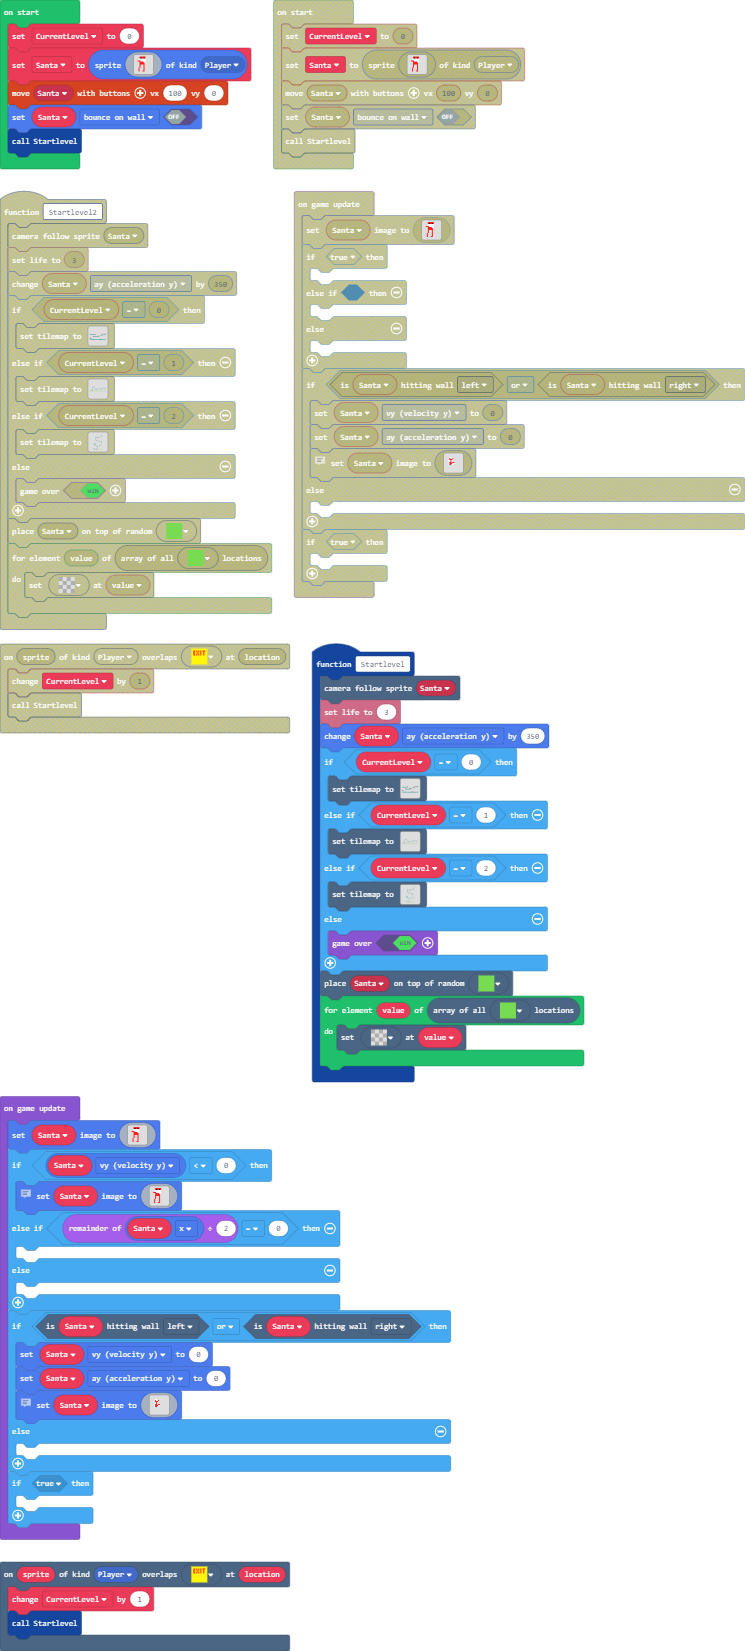
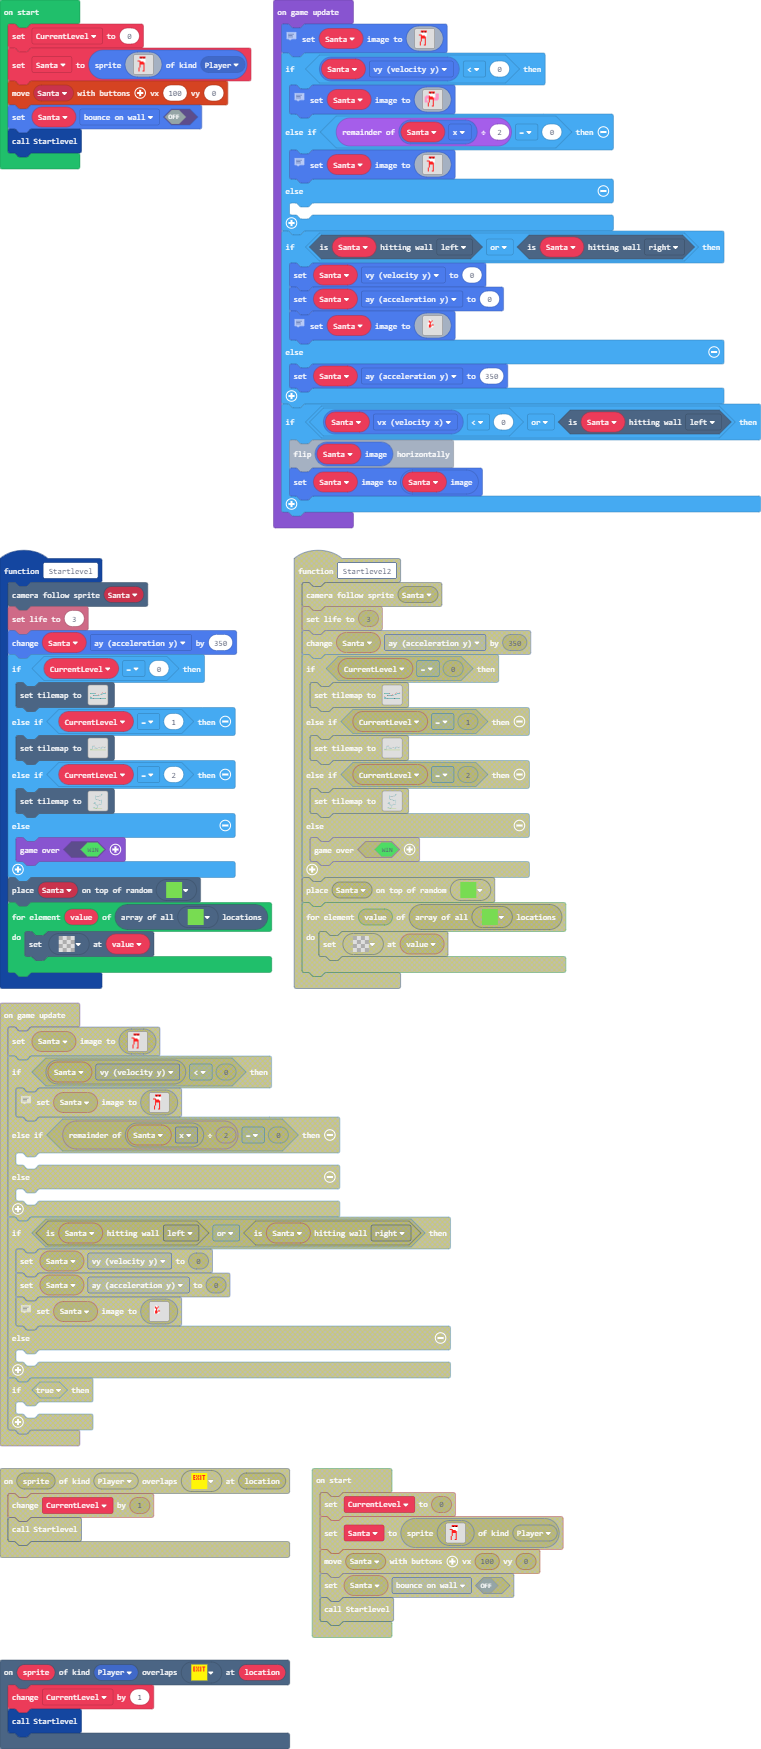
Update main.blocks, main.ts

diff --git a/main.ts b/main.ts
@@ -311,6 +311,7 @@ controller.moveSprite(Santa, 100, 0)
 Santa.setFlag(SpriteFlag.BounceOnWall, false)
 Startlevel()
 game.onUpdate(function () {
+    // Basic Santa sprite (walking/standing)
     Santa.setImage(img`
 . . . . 2 2 2 2 2 2 . . . . . . 
 . . . . 2 f 2 2 f 2 . . . . . . 
@@ -334,6 +335,26 @@ game.onUpdate(function () {
         Santa.setImage(img`
 . . . . 2 2 2 2 2 2 . . . . . . 
 . . . . 2 f 2 2 f 2 . . . . . . 
+. . . . 1 1 1 1 1 1 . 3 3 3 . . 
+. . . . 1 1 1 1 1 1 . 3 3 3 . . 
+. 3 3 3 2 1 1 1 1 1 . 3 3 3 . . 
+3 3 3 3 2 2 2 2 1 1 . 3 3 3 . . 
+3 3 3 3 2 2 2 2 2 3 3 3 3 3 . . 
+3 3 . . 2 2 2 2 2 3 3 3 3 3 . . 
+3 3 . . 2 . . . 2 3 3 3 3 . . . 
+3 3 3 . 2 . . . 2 . . . . . . . 
+3 3 3 . 2 . . . 2 . . . . . . . 
+. . . 2 . . . . 2 . . . . . . . 
+. . . 2 . . . . 2 . . . . . . . 
+. . . 2 . . . . 2 . . . . . . . 
+. . . 2 . . . 2 2 . . . . . . . 
+. . . . . . . . . . . . . . . . 
+`)
+    } else if (Santa.x % 2 == 0) {
+        // Basic Santa sprite (walking/standing)
+        Santa.setImage(img`
+. . . . 2 2 2 2 2 2 . . . . . . 
+. . . . 2 f 2 2 f 2 . . . . . . 
 . . . . 1 1 1 1 1 1 . . . . . . 
 . . . . 1 1 1 1 1 1 . . . . . . 
 . . 2 2 2 1 1 1 1 1 . . . . . . 
@@ -349,8 +370,6 @@ game.onUpdate(function () {
 . . . 2 . . . 2 2 . . . . . . . 
 . . . . . . . . . . . . . . . . 
 `)
-    } else if (Santa.x % 2 == 0) {
-    	
     } else {
     	
     }
@@ -377,9 +396,10 @@ game.onUpdate(function () {
 . . . . . . . . . . . . . . . . 
 `)
     } else {
-    	
+        Santa.ay = 350
     }
-    if (true) {
-    	
+    if (Santa.vx < 0 || Santa.isHittingTile(CollisionDirection.Left)) {
+        Santa.image.flipX()
+        Santa.setImage(Santa.image)
     }
 })
